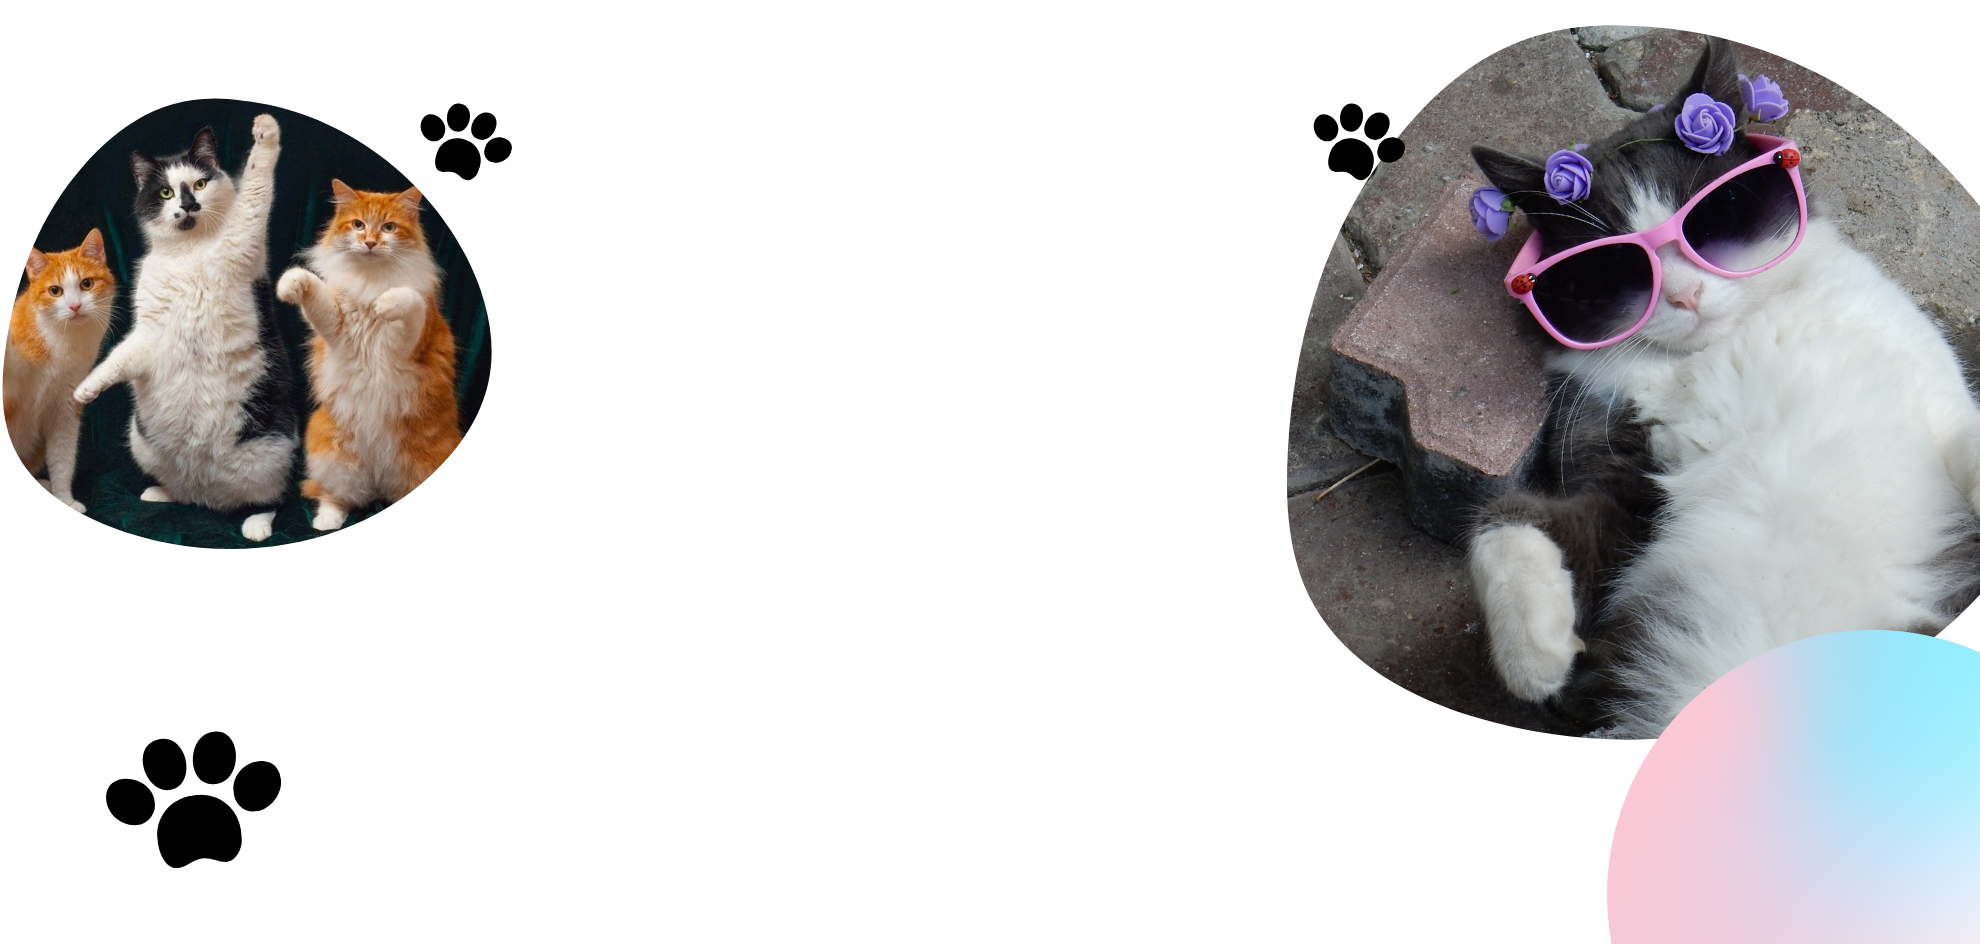
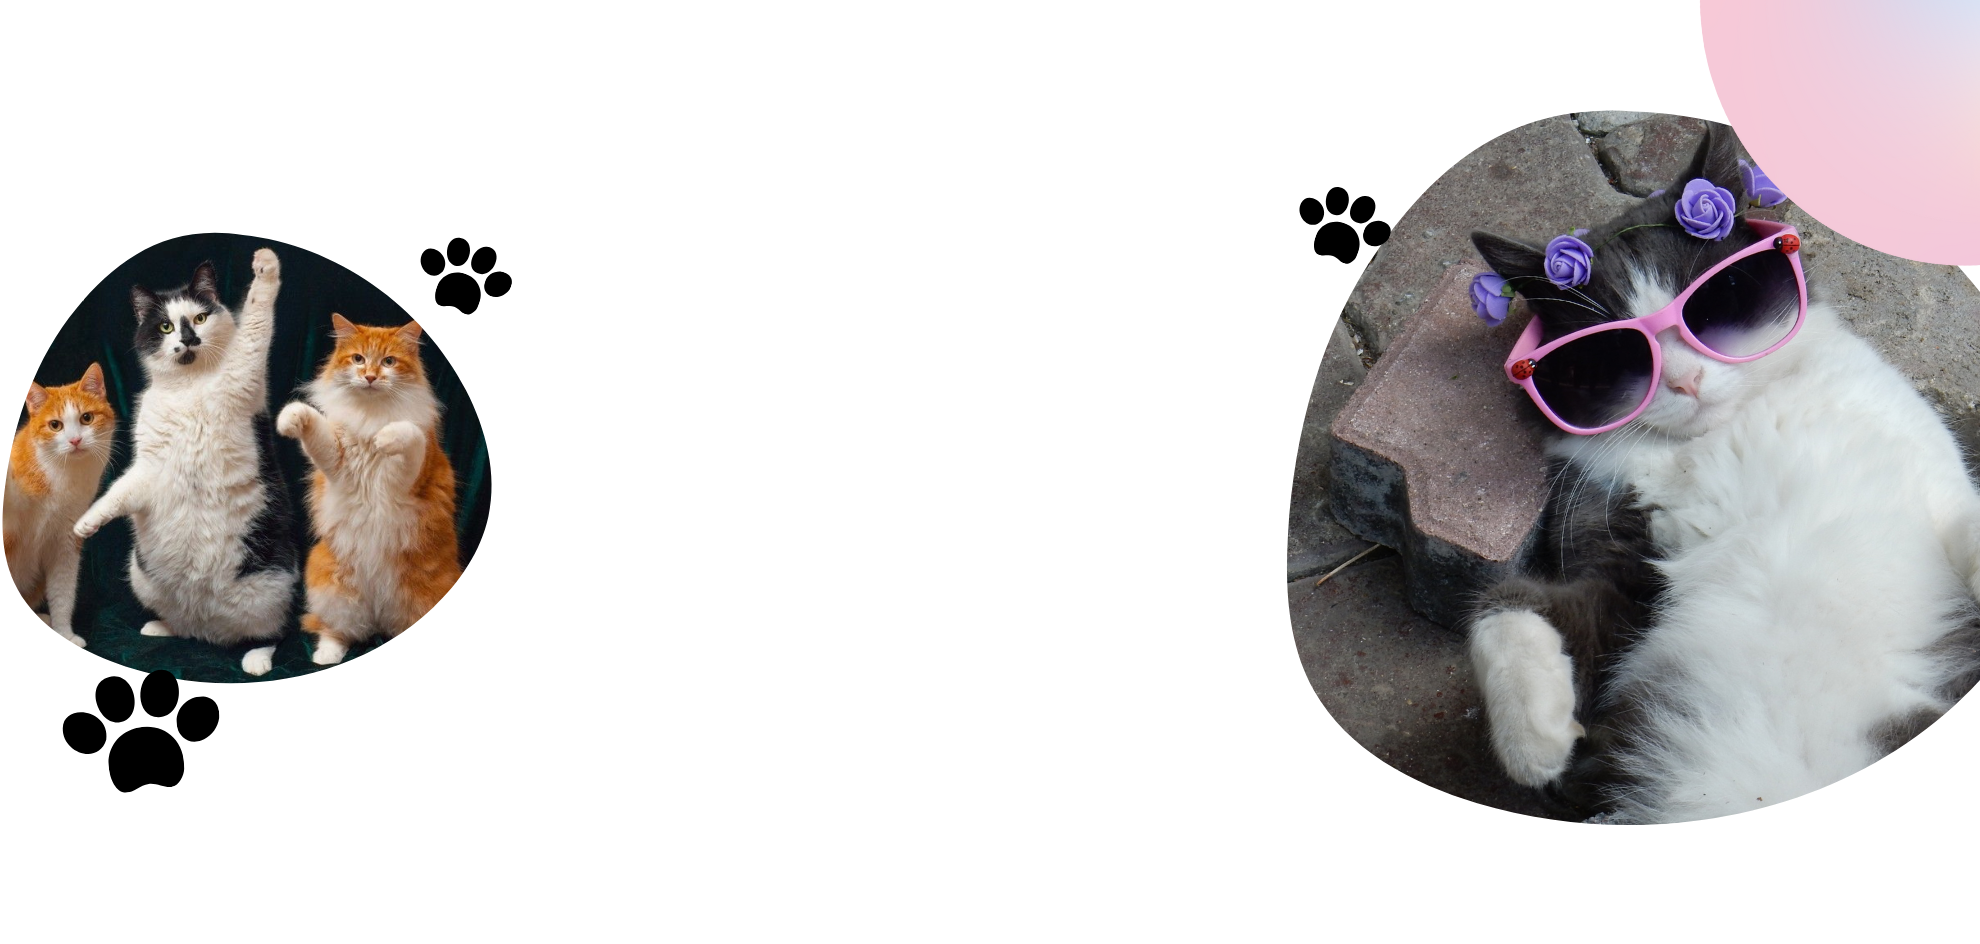
Front update

diff --git a/public/css/register.css b/public/css/register.css
@@ -4,7 +4,7 @@
 }
 
 body{
-    background-image: url(../images/register3.png);
+    background-image: url(../images/register.png);
     background-repeat: no-repeat;
     background-size: contain;
 }
@@ -36,6 +36,11 @@ h1{
     cursor: pointer;
 }
 
+.form-input {
+    margin-bottom: 20px; 
+}
+  
+
 .container{
     background-color: rgba(255, 255, 255, 0.492);
     height: 70vh;
@@ -47,10 +52,9 @@ h1{
     margin-left: 25vw;
     border: solid 1px black;
     align-items: center;
+    text-align: center;
 }
 
-#home{
-    width: 50px;
-}
+
 
 

diff --git a/src/controller/controller.php b/src/controller/controller.php
@@ -1,12 +1,10 @@
 <?php
 
-
 require_once "./src/models/modelUser.php";
 require_once "./src/models/model.php";
 
 function register() {
         try {
-            // Vérification des données entrées par l'utilisateur
             if (!isset($_POST["username"]) || !isset($_POST["email"]) || !isset($_POST["password"])) {
                 throw new Exception("Il faut remplir tous les champs");
             }
@@ -15,15 +13,11 @@ function register() {
             $email = $_POST["email"];
             $password = $_POST["password"];
 
-             // Connexion à la base de données
             $db = connectDB();
-
             // Création d'une instance de la classe UserModel
             $userModel = new UserModel($db);
-
             // Création de l'utilisateur
             $userModel->createUser($username, $email, $password);
-
             // Message de succès d'inscription
           $success_message = "Ton inscription a bien été enregistrée.";
           // Redirection vers la page de connexion
@@ -39,7 +33,6 @@ function register() {
 
 function login() {
     try {
-        // Vérification des données entrées par l'utilisateur
         if (!isset($_POST["email"]) || !isset($_POST["username"]) || !isset($_POST["password"])) {
             throw new Exception("Il faut remplir tous les champs.");
         }
@@ -88,10 +81,8 @@ function login() {
 }
 
 
-
 function updateProfile() {
     try {
-        // Vérification des données entrées par l'utilisateur
         if (!isset($_POST["username"]) || !isset($_POST["email"]) || !isset($_POST["password"])) {
             throw new Exception("Il faut remplir tous les champs.");
         }
@@ -116,7 +107,7 @@ function updateProfile() {
         // Affichage du message d'erreur dans la vue de profil
         require_once "./src/views/profile.php";
         // Lancement d'une nouvelle exception avec un message d'erreur détaillé
-        throw new Exception("Une erreur s'est produite : " . $e->getMessage());
+        throw new Exception($e->getMessage());
     }
 }
 
@@ -264,8 +255,6 @@ function viewMessages() {
         throw new Exception("Une erreur s'est produite : " . $e->getMessage());
     }
 }
-
-
 
 
 function home() {

diff --git a/src/views/register.php b/src/views/register.php
@@ -13,12 +13,13 @@
 <h1>Inscris toi !</h1>
 <div class="container">
   <form method="POST" action="./index.php?action=register">
-    <input type="text" name="username" id="username" required placeholder="Nom d'utilisateur :"><label for="username"></label><br>
-    <input type="password" name="password" id="password" required placeholder="Mot de passe :"><label for="password"></label><br>
-    <input type="email" name="email" id="email" required placeholder="Email :"><label for="email"></label><br>
+    <input type="text" name="username" id="username" required placeholder="Nom d'utilisateur :" class="form-input"><label for="username"></label><br>
+    <input type="password" name="password" id="password" required placeholder="Mot de passe :" class="form-input"><label for="password"></label><br>
+    <input type="email" name="email" id="email" required placeholder="Email :" class="form-input"><label for="email"></label><br>
     <input type="submit" class="submit_form" value="S'inscrire">
   </form>
 </div>
+
 
 <?php require "footer.php"; ?>
 </body>

diff --git a/src/models/modelUser.php b/src/models/modelUser.php
@@ -132,10 +132,10 @@ public function updateUser($userId, $username, $email, $password) {
             throw new Exception("Erreur lors de la mise à jour de l'utilisateur.");
         }
 
-                // Mettre à jour la variable de session "username" si la modification concerne l'utilisateur connecté
-                if ($_SESSION["user_id"] == $userId) {
-                    $_SESSION["username"] = $username;
-                }
+        // Mettre à jour la variable de session "username" si la modification concerne l'utilisateur connecté
+        if ($_SESSION["user_id"] == $userId) {
+        $_SESSION["username"] = $username;
+        }
                 
     } catch (Exception $e) {
         throw new Exception($e->getMessage());
